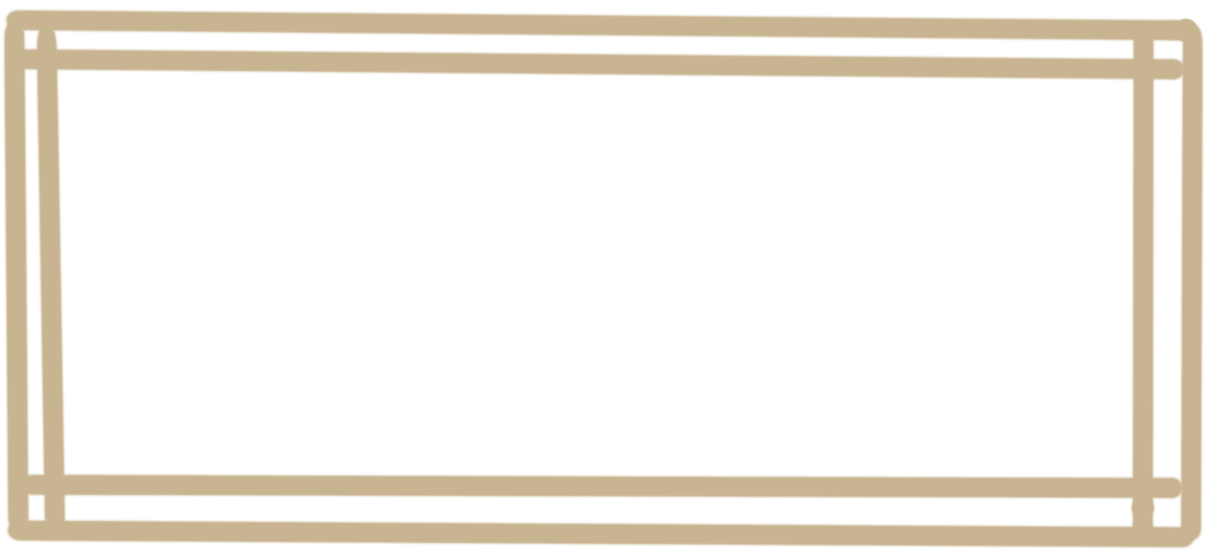
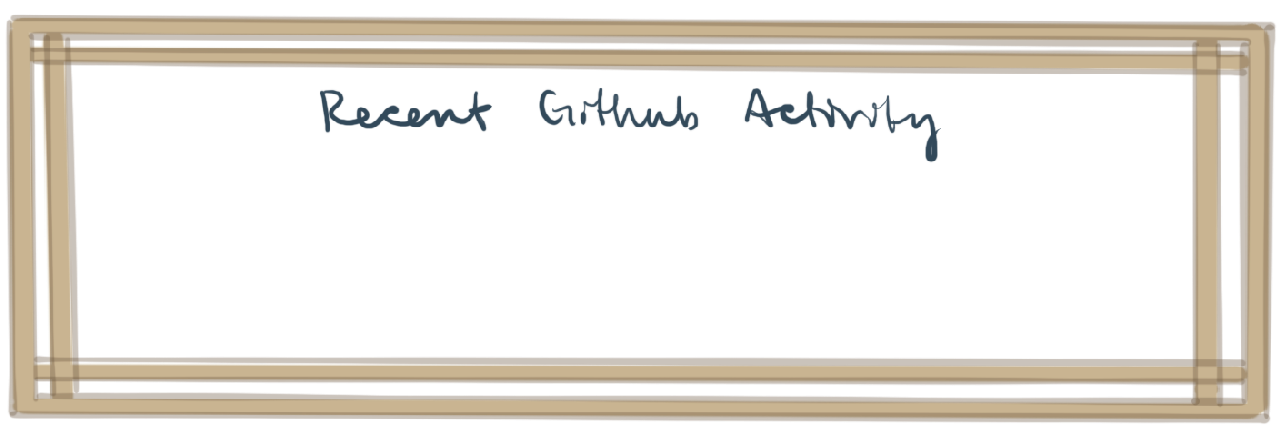
made a bunch of progress

Changed region(s): [[0.0, 0.0, 1.0, 0.9885], [0.2436, 0.2097, 0.5481, 0.2995], [0.5786, 0.2097, 0.7309, 0.3894]]

diff --git a/src/components/About_Frame.jsx b/src/components/About_Frame.jsx
@@ -1,0 +1,55 @@
+import { Box, Text } from "@chakra-ui/react";
+import Image from "next/image";
+
+export default function About_Frame() {
+  return (
+    <Box
+      width="90vw"
+      position="relative"
+      margin="10px auto"
+      overflow="hidden"
+      _before={{
+        content: '""',
+        display: "block",
+        paddingTop: "56.25%", // Maintains a 16:9 aspect ratio
+      }}
+    >
+      <Box
+        position="absolute"
+        top="0"
+        left="0"
+        right="0"
+        bottom="0"
+        display="flex"
+        justifyContent="center"
+        alignItems="center"
+      >
+        <Image
+          src="/assets/homepage/big_frame.png"
+          alt="big frame"
+          layout="fill"
+          objectFit="contain"
+        />
+        <Box
+          position="absolute"
+          top="20%"
+          left="20%"
+          right="20%"
+          bottom="20%"
+          display="flex"
+          justifyContent="center"
+          alignItems="center"
+          textAlign="center"
+        >
+          <Text fontSize={["xl", "2xl", "4xl"]} color="black" fontWeight="bold">
+            Welcome to my digital portfolio! The design of this page was
+            inspired by the work area in my apartment, where I created this site
+            and many other projects featured here. Scroll down to see my
+            bookshelf, art projects, software development, and more. Or click
+            here to learn more about me.
+          </Text>
+        </Box>
+      </Box>
+    </Box>
+  );
+}

diff --git a/src/components/Commits.jsx b/src/components/Commits.jsx
@@ -1,0 +1,41 @@
+import { Box } from "@chakra-ui/react";
+import Image from "next/image";
+
+export default function Commits() {
+  return (
+    <Box
+      width="100vw" // Set width to 100% of the viewport width
+      position="relative"
+      margin="30px auto"
+      overflow="hidden" // Ensures no spillover
+      _before={{
+        content: '""',
+        display: "block",
+        paddingTop: "56.25%", // Padding top for 16:9 aspect ratio (100 * 9 / 16)
+      }}
+    >
+      <Image
+        src="/assets/homepage/commits_frame.png"
+        alt="commits frame"
+        layout="fill"
+        objectFit="contain"
+      />
+      <Box
+        position="absolute" // Set this to absolute to overlay on the frame image
+        top="0" // Start at the top of the parent box
+        left="0" // Start at the left of the parent box
+        right="0" // Extend to the right of the parent box
+        bottom="0" // Extend to the bottom of the parent box
+        display="flex"
+        justifyContent="center"
+        alignItems="center"
+      >
+        <img
+          src="http://ghchart.rshah.org/409ba5/emmanasseri"
+          alt="emmanasseri's Github chart"
+          style={{ maxWidth: "200%", maxHeight: "200%" }} // Adjust size accordingly
+        />
+      </Box>
+    </Box>
+  );
+}

diff --git a/src/app/page.js b/src/app/page.js
@@ -4,9 +4,10 @@ import RootLayout from "./layout";
 import Chakra from "./chakra";
 
 import Signature_PFP from "@/components/Signature_PFP";
-import Lamp_Frame from "@/components/Lamp_Frame";
-import Bookshelf_Commits from "@/components/Bookshelf_Commits";
+import Commits from "@/components/Commits";
 import Lights_Desk from "@/components/Lights_Desk";
+import Bookshelf from "@/components/Bookshelf";
+import About_Frame from "@/components/About_Frame";
 
 function Home() {
   return (
@@ -14,15 +15,15 @@ function Home() {
       <Chakra>
         <VStack
           width="100vw"
-          height="100vh"
-          spacing={0}
+          spacing={2}
           align="stretch"
           justifyContent="flex-start"
           overflow="auto"
         >
           <Signature_PFP />
-          <Lamp_Frame />
-          <Bookshelf_Commits />
+          <About_Frame />
+          <Commits />
+          <Bookshelf />
           <Lights_Desk />
         </VStack>
       </Chakra>

diff --git a/src/components/Bookshelf.jsx b/src/components/Bookshelf.jsx
@@ -1,0 +1,17 @@
+import { Box, HStack, Spacer } from "@chakra-ui/react";
+import Image from "next/image";
+
+export default function Bookshelf() {
+  return (
+    <Box width="500px" position="relative">
+      <Image
+        src="/assets/homepage/lower_shelf.png"
+        alt="lower shelf"
+        layout="responsive"
+        width={500}
+        height={500}
+        objectFit="contain"
+      />
+    </Box>
+  );
+}
